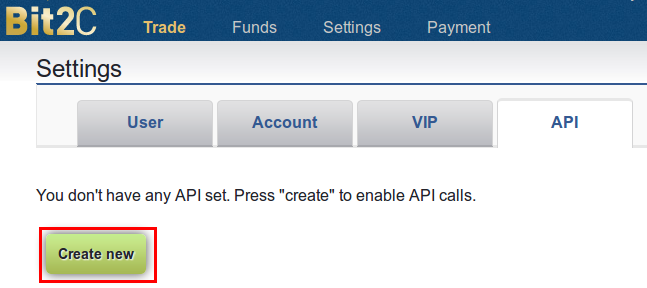
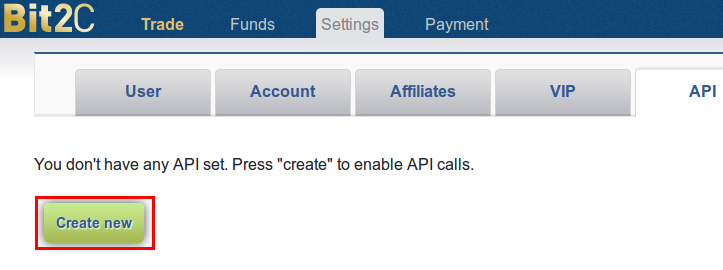
Bit2c exchange no longer unsafe.
git-svn-id: https://openclerk.googlecode.com/svn/trunk@964 b12a1112-ca08-e5dd-f792-535eff3abf3b

Changed region(s): [[0.0309, 0.1778, 1.0, 0.5333], [0.0309, 0.563, 0.7419, 1.0], [0.0, 0.0, 1.0, 0.1481]]

diff --git a/templates/inline_accounts_bit2c.php b/templates/inline_accounts_bit2c.php
@@ -5,15 +5,13 @@ $account_data = array('exchange_name' => get_exchange_name('bit2c'));
 <div class="instructions_add">
 <h2>Adding a <?php echo $account_data['exchange_name']; ?> account</h2>
 
-<h3 class="unsafe_warning">Warning: Providing your <?php echo $account_data['exchange_name']; ?> account data is <a href="http://code.google.com/p/openclerk/wiki/Unsafe">unsafe</a>.</h3>
-
 <ol class="steps">
 	<li>Log into your <?php echo $account_data['exchange_name']; ?> account and visit the <a href="https://www.bit2c.co.il/FixAPI/index">API</a> page.<br>
 
 	<li>Click on "Create new".<br>
 		<img src="<?php echo htmlspecialchars(url_for('img/accounts/bit2c1.png')); ?>"></li>
 
-	<li>Enter any title you want, select "Enable POST" and click "Confirm".<br>
+	<li>Enter any title you want, make sure "Readonly" is selected and click "Confirm".<br>
 		<img src="<?php echo htmlspecialchars(url_for('img/accounts/bit2c2.png')); ?>"></li>
 
 	<li>Copy and paste your <i>Key</i> and <i>Secret</i> into the <a class="wizard_link" href="<?php echo htmlspecialchars(url_for('wizard_accounts_exchanges')); ?>">"Add new Exchange" form</a>, and click "Add account".<br>
@@ -26,11 +24,9 @@ $account_data = array('exchange_name' => get_exchange_name('bit2c'));
 <h2>Is it safe to provide <?php echo htmlspecialchars(get_site_config('site_name')); ?> a <?php echo $account_data['exchange_name']; ?> API key?</h2>
 
 <ul>
-	<li><strong class="unsafe_warning">Providing <?php echo $account_data['exchange_name']; ?> account data is <a href="http://code.google.com/p/openclerk/wiki/Unsafe">unsafe</a>;</strong>
-		you need to ensure that you trust this server, and that it is not possible for somebody to access your host or database.</li>
-
-	<li><?php echo $account_data['exchange_name']; ?> API keys are <strong>not read-only</strong>, and if someone was to
-		access your account data, they could make trades or withdraw funds using these keys.</li>
+	<li>You need to make sure that the API key is marked as <i>Readonly</i>. This should
+		mean that the API key can only be used to retrieve account status, and it should not be possible
+		to perform trades or withdraw funds using that key.</li>
 
 	<li>Your <?php echo $account_data['exchange_name']; ?> keys and secrets will <i>never</i> be displayed on the <?php echo htmlspecialchars(get_site_config('site_name')); ?>
 		site, even if you have logged in.</li>
@@ -38,7 +34,7 @@ $account_data = array('exchange_name' => get_exchange_name('bit2c'));
 	<li>Through the <?php echo $account_data['exchange_name']; ?> interface you can revoke a set of API keys&apos; access at any time by
 		going to <a href="https://www.bit2c.co.il/FixAPI/index">API</a> page and clicking the <i>delete</i> button after below the API key.<br>
 		<img src="<?php echo htmlspecialchars(url_for('img/accounts/bit2c_delete1.png')); ?>"><br>
-		Alternatively, you can disable access by clicking the <i>edit</i> button, unselecting the "<i>enable post</i>" and "<i>active</i>" checkboxes and clicking <i>Save</i>.<br>
+		Alternatively, you can disable access by clicking the <i>edit</i> button, unselecting the "<i>Is Active</i>" checkbox and clicking <i>Save</i>.<br>
 		<img src="<?php echo htmlspecialchars(url_for('img/accounts/bit2c_delete2.png')); ?>"></li>
 </ul>
 </div>

diff --git a/templates/inline_add_service.php b/templates/inline_add_service.php
@@ -30,11 +30,11 @@ Exchanges/pools/services that do <em>not</em> have a suitable read-only API yet 
 	<li>CoinJar (<a href="https://support.coinjar.com/discussions/suggestions/271-read-only-api-access">requested</a>)</li>
 	<li>Coinotron (on development list)</li>
 	<li>CoinEX</li>
-	<li>Coin.Mx</li>
 </ul>
 </div>
 <div class="column">
 <ul>
+	<li>Coin.Mx</li>
 	<li>Coins-E</li>
 	<li>fast-pool.com</li>
 	<li>Flexcoin (<a href="https://bitcointalk.org/index.php?topic=57732.msg2022077#msg2022077">no API yet</a>)</li>
@@ -42,7 +42,6 @@ Exchanges/pools/services that do <em>not</em> have a suitable read-only API yet 
 	<li>NetcodePool (all currencies)</li>
 	<li>Safello</li>
 	<li>VirtEx (<a href="https://www.cavirtex.com/faq#tradingapi">wallet balances API coming</a>)</li>
-	<li>Bit2c (only available through an <a href="http://code.google.com/p/openclerk/wiki/Unsafe">unsafe instance</a>)</li>
 </ul>
 </div>
 </div>

diff --git a/inc/crypto.php b/inc/crypto.php
@@ -600,7 +600,7 @@ function account_data_grouped() {
 		),
 		'Exchanges' => array(
 			'bips' => array('table' => 'accounts_bips', 'group' => 'accounts', 'wizard' => 'exchanges', 'failure' => true, 'disabled' => true),
-			'bit2c' => array('table' => 'accounts_bit2c', 'group' => 'accounts', 'wizard' => 'exchanges', 'failure' => true, 'unsafe' => true),
+			'bit2c' => array('table' => 'accounts_bit2c', 'group' => 'accounts', 'wizard' => 'exchanges', 'failure' => true),
 			'bitcurex_eur' => array('table' => 'accounts_bitcurex_eur', 'group' => 'accounts', 'wizard' => 'exchanges', 'failure' => true),
 			'bitcurex_pln' => array('table' => 'accounts_bitcurex_pln', 'group' => 'accounts', 'wizard' => 'exchanges', 'failure' => true),
 			'bitstamp' => array('table' => 'accounts_bitstamp', 'group' => 'accounts', 'wizard' => 'exchanges', 'failure' => true),

diff --git a/batch_queue.php b/batch_queue.php
@@ -81,6 +81,7 @@ $standard_jobs = array(
 	array('table' => 'addresses', 'type' => 'digitalcoin', 'query' => ' AND currency=\'dgc\''), // make sure to add _block job below too
 	array('table' => 'addresses', 'type' => 'worldcoin', 'query' => ' AND currency=\'wdc\''), // make sure to add _block job below too
 	array('table' => 'accounts_generic', 'type' => 'generic', 'failure' => true),
+	array('table' => 'accounts_bit2c', 'type' => 'bit2c', 'failure' => true),
 	array('table' => 'accounts_btce', 'type' => 'btce', 'failure' => true),
 	array('table' => 'accounts_mtgox', 'type' => 'mtgox', 'failure' => true),
 	array('table' => 'accounts_vircurex', 'type' => 'vircurex', 'failure' => true),
